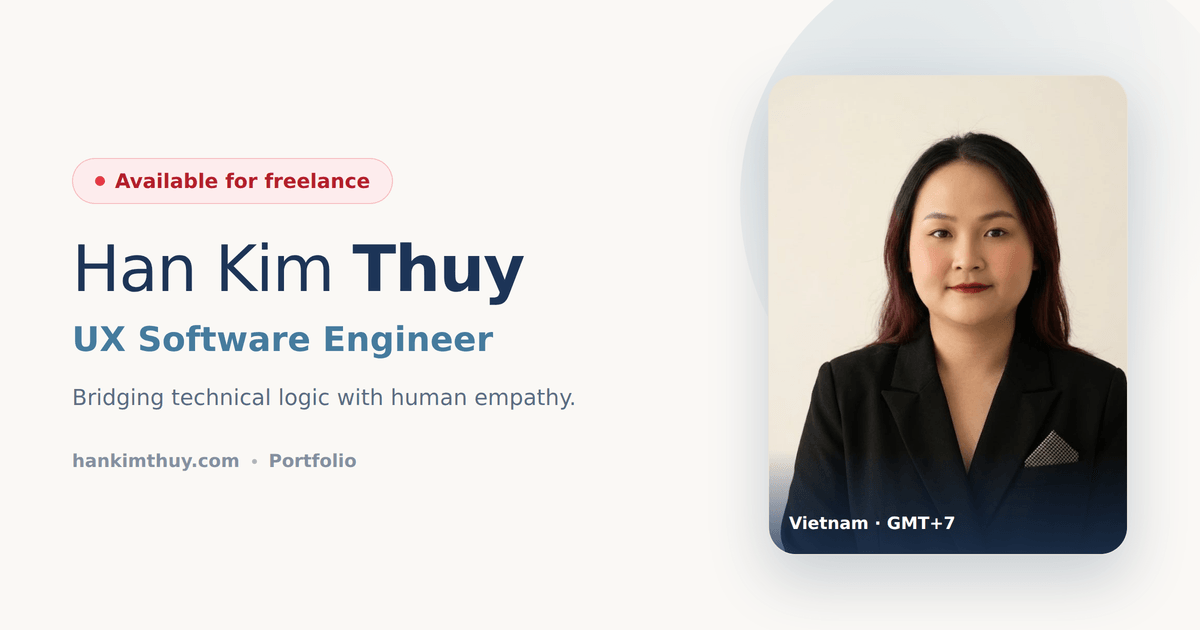
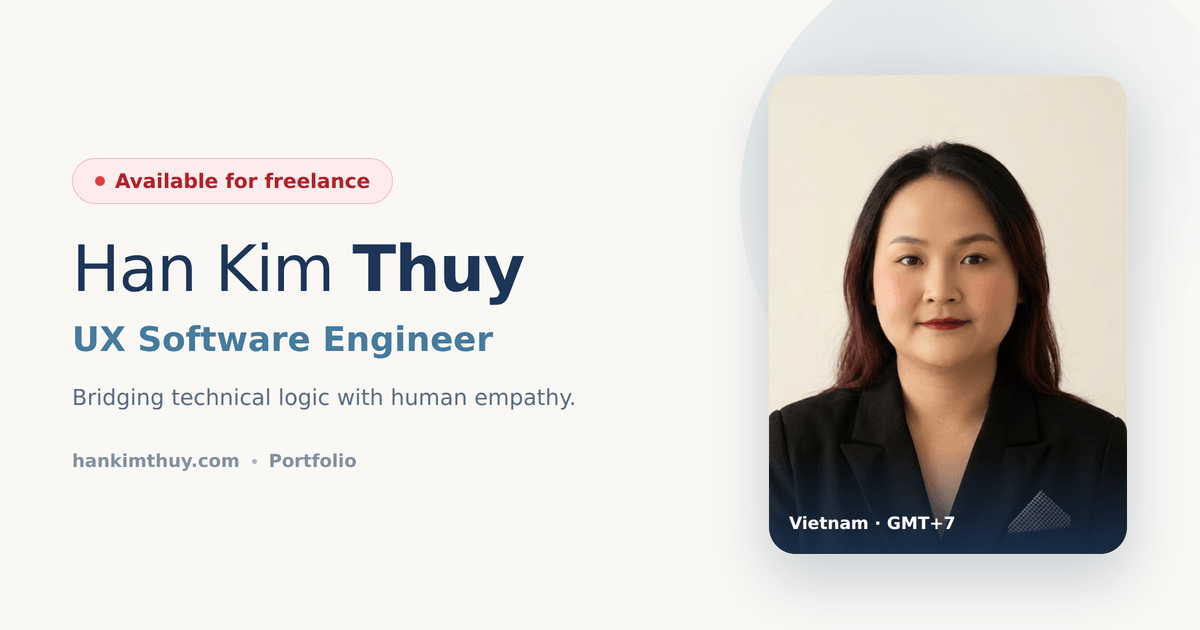
fix: recenter the portrait crop
Measured the subject's actual position in the original upload: hair span
x 218-577 (center ~398), jacket span x 23-743 (center ~383) — so the
subject sits at roughly x=390-398 in the 768px-wide original. The
previous crop (left=0, width=690) had its own center at x=345, about
45-53px left of the subject, which read as a gap of empty background on
the left wherever the file was displayed — the home page portrait card
and the OG image both embed this same file, so both inherited the same
off-center subject.

New crop: left=99, top=70, width=590, height=787. Center (394) matches
the measured subject position; right edge (689) still clears the
corner mark found earlier (which starts at x=700), so no regression
there. Same top offset as before, so headroom is unchanged.

Regenerated the OG image against the corrected file (it embeds the
portrait directly rather than referencing it, so needed a fresh render)
and updated PortraitCard's declared width/height to match the new
590x787 crop.

Claude-Session: https://claude.ai/code/session_01B5RNRaTBBCy4u9wxvZQ1SN

Changed region(s): [[0.6783, 0.2111, 0.9558, 0.8444], [0.6167, 0.6333, 0.6783, 0.8746], [0.8325, 0.7841, 0.8942, 0.8444]]

diff --git a/components/home/PortraitCard.tsx b/components/home/PortraitCard.tsx
@@ -13,8 +13,8 @@ export default async function PortraitCard() {
       <Image
         src={PORTRAIT_IMAGE_PATH}
         alt={t('portraitAlt')}
-        width={690}
-        height={920}
+        width={590}
+        height={787}
         priority
         sizes="(max-width: 768px) 100vw, (max-width: 1024px) 50vw, 25vw"
         className="absolute inset-0 h-full w-full object-cover object-top"
